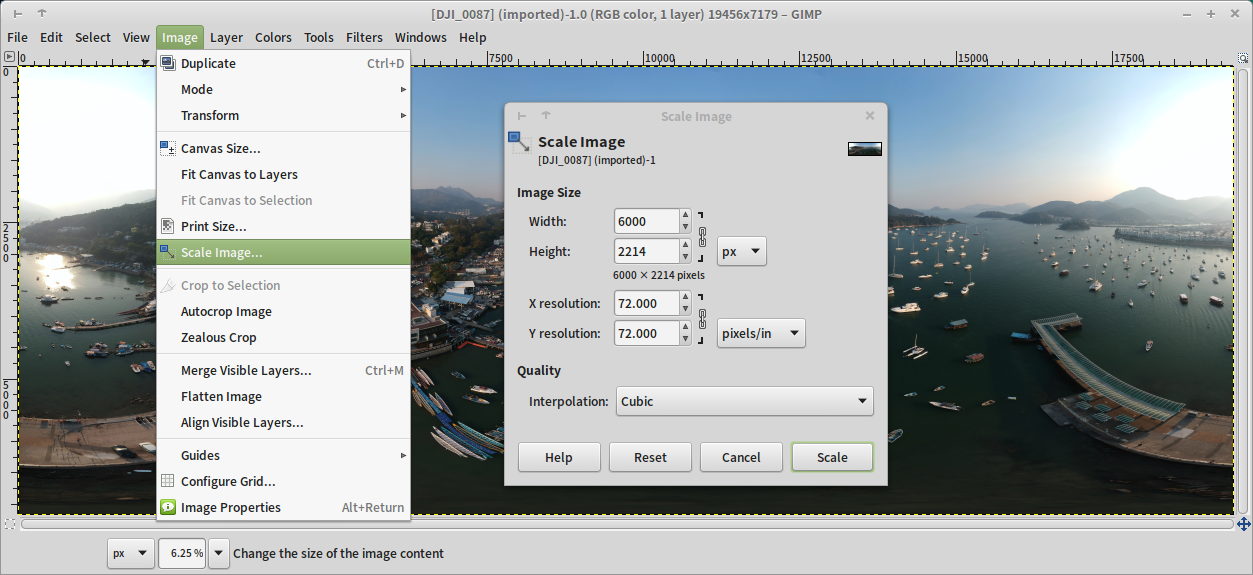
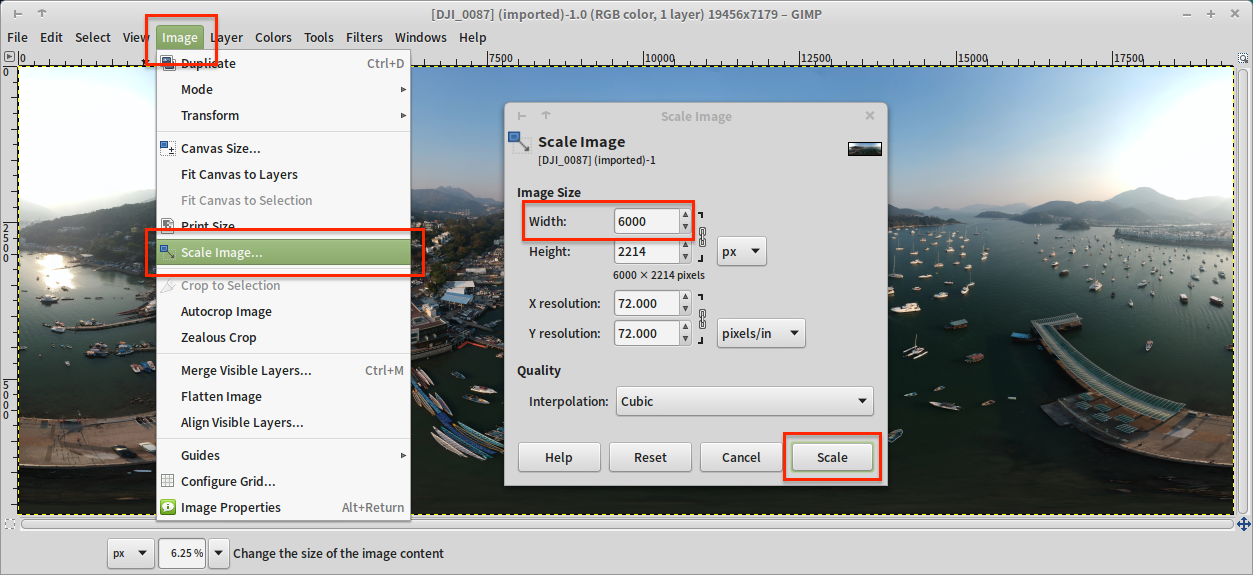
update

diff --git a/main/2018/01/03/Combine-46-photos-using-microsoft-ice.html b/main/2018/01/03/Combine-46-photos-using-microsoft-ice.html
@@ -43,11 +43,11 @@
  <img src="//ronald8192.github.io/photos-to-fb360/assets/img/step1-combine/0.png" alt="Step 1" class="rounded card-shadow" /></p>
   </li>
   <li>
-    <p>Use default settings (Camera Motion: Auto-detect) ➜ Next
+    <p>Use default settings (Camera Motion: <code class="highlighter-rouge">Auto-detect</code>) ➜ Next
  <img src="//ronald8192.github.io/photos-to-fb360/assets/img/step1-combine/1.png" alt="Step 2" class="rounded card-shadow" /></p>
   </li>
   <li>
-    <p>Use default settings (Projection: Spherical) ➜ Next
+    <p>Use default settings (Projection: <code class="highlighter-rouge">Spherical</code>) ➜ Next
  <img src="//ronald8192.github.io/photos-to-fb360/assets/img/step1-combine/2.png" alt="Step 3" class="rounded card-shadow" /></p>
   </li>
   <li>
@@ -55,7 +55,7 @@
  <img src="//ronald8192.github.io/photos-to-fb360/assets/img/step1-combine/3.png" alt="Step 4" class="rounded card-shadow" /></p>
   </li>
   <li>
-    <p><code class="highlighter-rouge">Quality</code> set to 100 ➜ Export to disk
+    <p><code class="highlighter-rouge">Quality</code> set to <code class="highlighter-rouge">100</code> ➜ Export to disk
  <img src="//ronald8192.github.io/photos-to-fb360/assets/img/step1-combine/4.png" alt="Step 5" class="rounded card-shadow" /></p>
   </li>
 </ol>

diff --git a/main/2018/01/03/Resize-photo-to-2-1-ratio.html b/main/2018/01/03/Resize-photo-to-2-1-ratio.html
@@ -43,13 +43,13 @@
 <ol>
   <li>Image ➜ Scale Image…</li>
   <li>Set <code class="highlighter-rouge">6000</code> for width</li>
-  <li>Click “Scale”
+  <li>Click <code class="highlighter-rouge">Scale</code>
  <img src="//ronald8192.github.io/photos-to-fb360/assets/img/step2-scale/1-scale-image.png" alt="Scale Image" class="rounded card-shadow" /></li>
   <li>Image ➜ Canvas size…</li>
   <li>Set <code class="highlighter-rouge">3000</code> for height (<code class="highlighter-rouge">6000 / 2 = 3000</code>)</li>
   <li>Hit <code class="highlighter-rouge">Tab</code>, let the canvas preview update</li>
   <li>In the canvas preview: drag the image down to bottom</li>
-  <li>Click “Resize”
+  <li>Click <code class="highlighter-rouge">Resize</code>
  <img src="//ronald8192.github.io/photos-to-fb360/assets/img/step2-scale/2-canvas-size.png" alt="Scale Image" class="rounded card-shadow" /></li>
   <li>File ➜ Export As… (Save as a new photo)</li>
 </ol>
